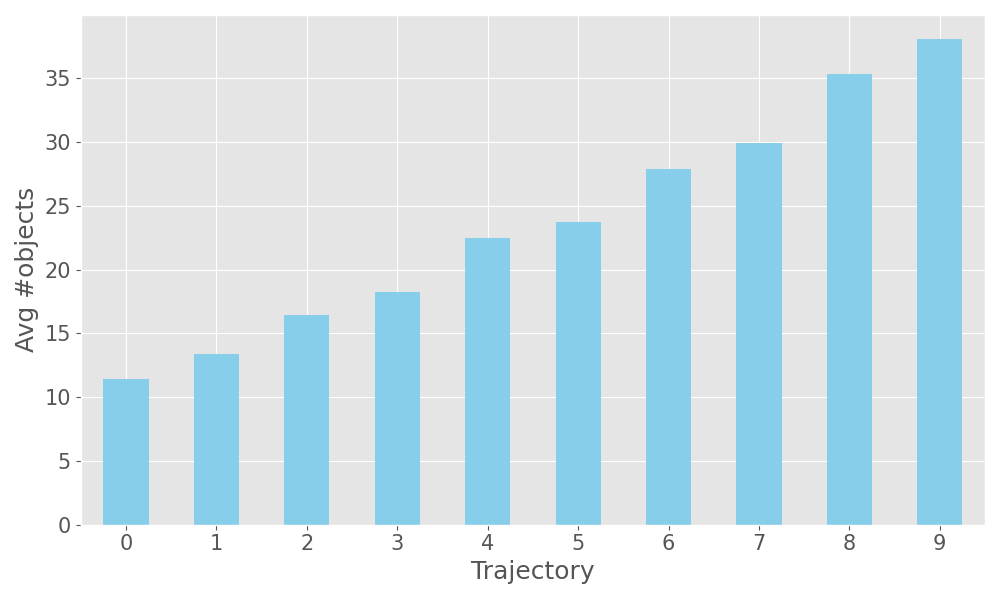
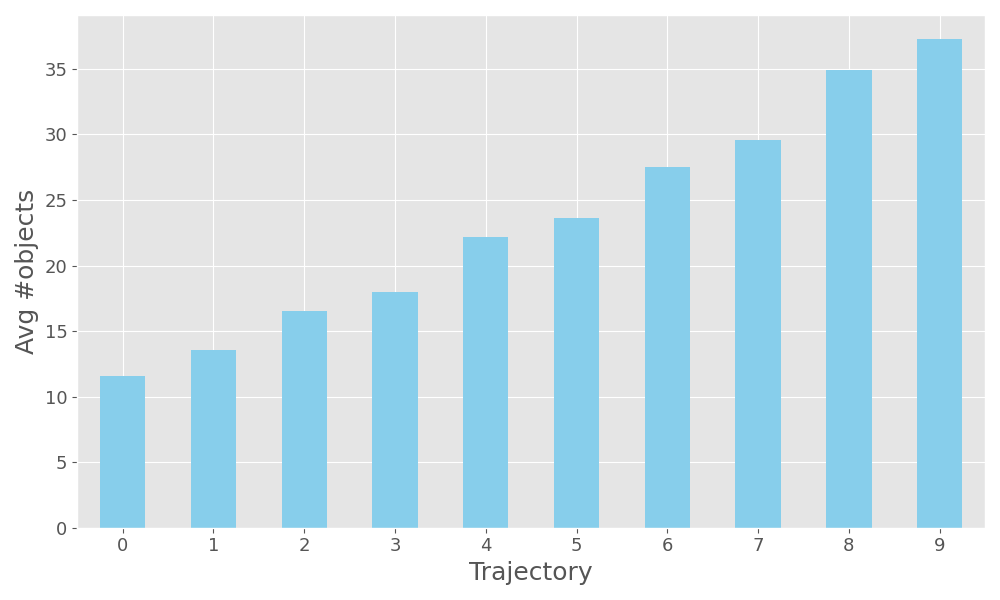
update stats

diff --git a/util/gen_stats.py b/util/gen_stats.py
@@ -15,6 +15,7 @@ import re
 import matplotlib.pyplot as plt
 plt.style.use('ggplot')
 
+
 def get_object_stats(domain_file: str,
                      problem_file: str) -> Dict[Tuple[str, str], float]:
 
@@ -119,7 +120,7 @@ def write_domain_stats(file_name):
             upl_domain = reader.parse_problem(domain_file)
 
             domain_stats = {
-                'id': domain,
+                'domain': domain,
                 'operators': len(upl_domain.actions),
                 'min operators arity': min([len(a.parameters) for a in upl_domain.actions]),
                 'max operators arity': max([len(a.parameters) for a in upl_domain.actions]),
@@ -196,8 +197,8 @@ def plot_avg_attr(df_file_path: str,
     # plt.title('Average number of objects')
     plt.xlabel('Trajectory', size=18)
     plt.ylabel(f'Avg #{attribute}', size=18)
-    plt.xticks(rotation=0, size=15)
-    plt.yticks(rotation=0, size=15)
+    plt.xticks(rotation=0, size=13)
+    plt.yticks(rotation=0, size=13)
     plt.tight_layout()
     plt.savefig(img_file_path)
 
@@ -218,7 +219,7 @@ if __name__ == '__main__':
     write_domain_stats(f"../{BENCHMARK_DIR}/domains.xlsx")
 
     # Print domain statistics into a markdown table
-    domain_table_columns = ['id', 'operators', 'predicates', 'types',
+    domain_table_columns = ['domain', 'operators', 'predicates', 'types',
                             'max operators arity', 'max predicates arity',
                             'min operators arity', 'min predicates arity']
     print(pd.read_excel(f"../{BENCHMARK_DIR}/domains.xlsx")[domain_table_columns].to_markdown(index=False))
